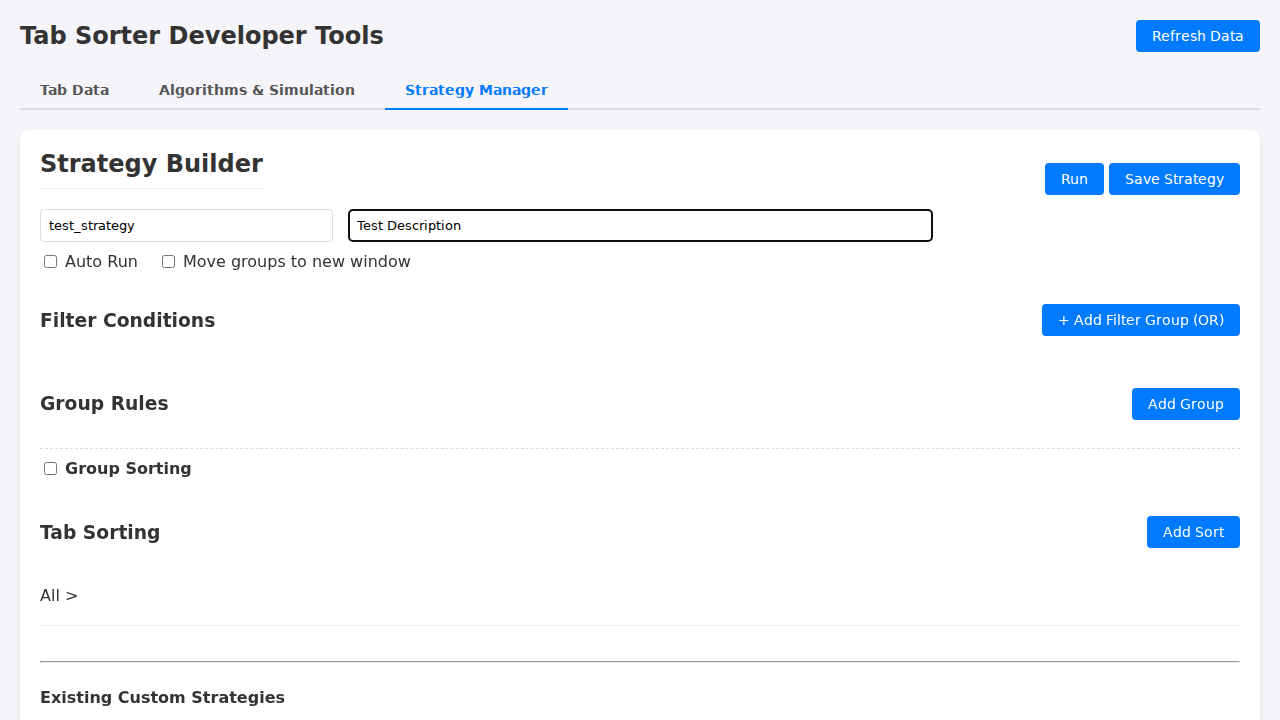
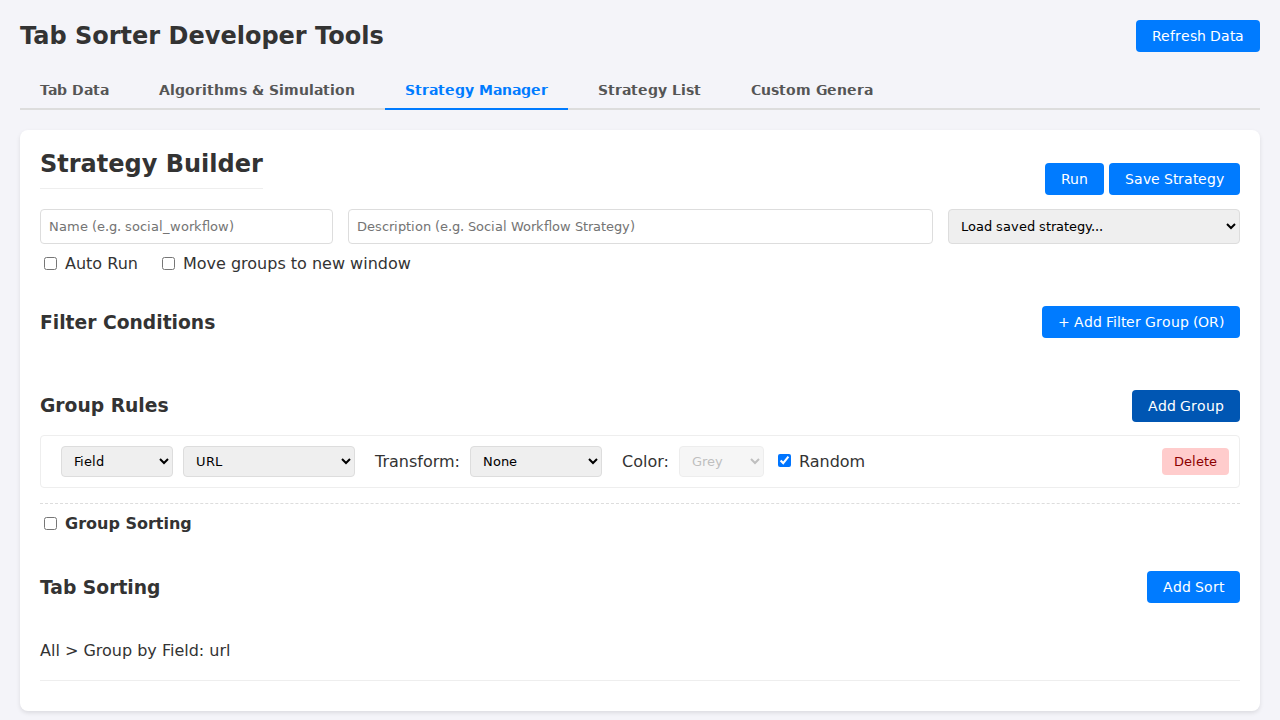
Add transformation support to Custom Strategy Grouping Rules
- Updated `GroupingRule` interface to include optional `transform` property.
- Implemented transformation logic in `groupingKey` (stripTld, domain, uppercase, etc.).
- Updated Strategy Builder UI to allow selecting transformations.
- This allows Custom Rules to produce cleaner labels (e.g., 'google' instead of 'google.com'), bridging the gap with built-in strategies.

diff --git a/src/ui/devtools.ts b/src/ui/devtools.ts
@@ -570,6 +570,17 @@ function addBuilderRow(type: 'group' | 'sort' | 'groupSort', data?: any) {
                  <input type="text" class="value-input-text" placeholder="Group Name" style="display:none;">
             </span>
 
+            <span style="margin-left: 10px;">Transform:</span>
+            <select class="transform-select">
+                <option value="none">None</option>
+                <option value="stripTld">Strip TLD</option>
+                <option value="domain">Get Domain</option>
+                <option value="hostname">Get Hostname</option>
+                <option value="lowercase">Lowercase</option>
+                <option value="uppercase">Uppercase</option>
+                <option value="firstChar">First Char</option>
+            </select>
+
             <span style="margin-left: 10px;">Color:</span>
             <select class="color-input">
                 <option value="grey">Grey</option>
@@ -643,6 +654,7 @@ function addBuilderRow(type: 'group' | 'sort' | 'groupSort', data?: any) {
             const sourceSelect = div.querySelector('.source-select') as HTMLSelectElement;
             const fieldSelect = div.querySelector('.value-input-field') as HTMLSelectElement;
             const textInput = div.querySelector('.value-input-text') as HTMLInputElement;
+            const transformSelect = div.querySelector('.transform-select') as HTMLSelectElement;
             const colorInput = div.querySelector('.color-input') as HTMLSelectElement;
             const randomCheck = div.querySelector('.random-color-check') as HTMLInputElement;
 
@@ -656,6 +668,8 @@ function addBuilderRow(type: 'group' | 'sort' | 'groupSort', data?: any) {
             } else {
                 if (data.value) textInput.value = data.value;
             }
+
+            if (data.transform) transformSelect.value = data.transform;
 
             if (data.color && data.color !== 'random') {
                 randomCheck.checked = false;
@@ -778,6 +792,8 @@ function getBuilderStrategy(): CustomStrategy | null {
             value = (row.querySelector('.value-input-text') as HTMLInputElement).value;
         }
 
+        const transform = (row.querySelector('.transform-select') as HTMLSelectElement).value as any;
+
         const randomCheck = row.querySelector('.random-color-check') as HTMLInputElement;
         const colorInput = row.querySelector('.color-input') as HTMLSelectElement;
 
@@ -787,7 +803,7 @@ function getBuilderStrategy(): CustomStrategy | null {
         }
 
         if (value) {
-            groupingRules.push({ source, value, color });
+            groupingRules.push({ source, value, color, transform });
         }
     });
 

diff --git a/src/background/groupingStrategies.ts b/src/background/groupingStrategies.ts
@@ -278,6 +278,34 @@ export const groupingKey = (tab: TabMetadata, strategy: GroupingStrategy | strin
               } else {
                    val = rule.value;
               }
+
+              // Apply Transformation
+              if (val && rule.transform && rule.transform !== 'none') {
+                  switch (rule.transform) {
+                      case 'stripTld':
+                          val = stripTld(val);
+                          break;
+                      case 'lowercase':
+                          val = val.toLowerCase();
+                          break;
+                      case 'uppercase':
+                          val = val.toUpperCase();
+                          break;
+                      case 'firstChar':
+                          val = val.charAt(0);
+                          break;
+                      case 'domain':
+                          // Assumes val is a URL
+                          val = domainFromUrl(val);
+                          break;
+                      case 'hostname':
+                          try {
+                            val = new URL(val).hostname;
+                          } catch { /* keep as is */ }
+                          break;
+                  }
+              }
+
               if (val) parts.push(val);
           }
 

diff --git a/src/shared/types.ts b/src/shared/types.ts
@@ -124,6 +124,7 @@ export interface GroupingRule {
   source: "field" | "fixed";
   value: string;
   color?: string; // hex code or "random"
+  transform?: "none" | "stripTld" | "lowercase" | "uppercase" | "firstChar" | "domain" | "hostname";
 }
 
 export interface SortingRule {

diff --git a/verification/verify_ui.py b/verification/verify_ui.py
@@ -1,40 +1,91 @@
 from playwright.sync_api import sync_playwright
-import os
 
-def run():
+def verify_devtools_ui():
     with sync_playwright() as p:
         browser = p.chromium.launch(headless=True)
         page = browser.new_page()
 
-        # Load the HTML file directly
-        file_path = os.path.abspath("ui/devtools.html")
-        page.goto(f"file://{file_path}")
+        # Inject mock chrome API
+        page.add_init_script("""
+            window.chrome = {
+                runtime: {
+                    sendMessage: (msg) => {
+                        console.log("Mock sendMessage:", msg);
+                        return Promise.resolve({ ok: true, data: {} });
+                    },
+                    onMessage: { addListener: () => {} }
+                },
+                tabs: {
+                    query: () => Promise.resolve([]),
+                    onUpdated: { addListener: () => {} },
+                    onRemoved: { addListener: () => {} }
+                },
+                tabGroups: {
+                    query: () => Promise.resolve([]),
+                    update: () => Promise.resolve()
+                },
+                windows: {
+                    update: () => Promise.resolve()
+                }
+            };
+        """)
 
-        # Click the "Strategy Manager" tab to switch view
-        page.locator(".tab-btn[data-target=\"view-strategies\"]").click()
+        page.goto("http://localhost:8000/ui/devtools.html")
+        page.wait_for_selector("body")
 
-        # Wait for the view to be active
-        page.locator("#view-strategies").wait_for(state="visible")
+        # Switch to Strategy Manager tab
+        strategy_tab_btn = page.locator(".tab-btn[data-target='view-strategies']")
+        strategy_tab_btn.click()
+        print("Clicked Strategy Manager tab")
 
-        # Check if the IDs strat-name and strat-desc exist and are visible
-        # We can also fill them to ensure they are interactive
-        page.locator("#strat-name").fill("test_strategy")
-        page.locator("#strat-desc").fill("Test Description")
+        # Wait for the view to become active
+        page.wait_for_selector("#view-strategies.active")
 
-        # Verify that run and save buttons are present
-        expect_run = page.locator("#builder-run-btn")
-        expect_save = page.locator("#builder-save-btn")
+        # Click "Add Group" to create a new row
+        add_btn = page.locator("#add-group-btn")
+        if add_btn.is_visible():
+            add_btn.click()
+            print("Clicked Add Group")
+        else:
+            print("Add Group button not visible")
 
-        if not expect_run.is_visible():
-            print("Run button not visible")
-        if not expect_save.is_visible():
-            print("Save button not visible")
+        # Wait for the row to appear
+        try:
+            page.wait_for_selector(".builder-row", timeout=5000)
+            print("Builder row appeared.")
+        except:
+            print("Builder row did not appear.")
 
-        # Take a screenshot
-        page.screenshot(path="verification/devtools_verification.png")
-        print("Screenshot saved to verification/devtools_verification.png")
+        # Check for Transform UI
+        transform_select = page.locator(".transform-select")
+        # Since I just added a row, it should be the last one or only one.
+        # We need to make sure the row type is 'group'. The ID is #group-rows-container
+        # Check inside that container
+        group_rows = page.locator("#group-rows-container .builder-row")
+
+        if group_rows.count() > 0:
+            row = group_rows.first
+            select = row.locator(".transform-select")
+            if select.is_visible():
+                 print("Transform select found.")
+                 options = select.locator("option").all_inner_texts()
+                 print("Options found:", options)
+                 expected = ["None", "Strip TLD", "Get Domain", "Get Hostname", "Lowercase", "Uppercase", "First Char"]
+                 missing = [e for e in expected if e not in options]
+                 if not missing:
+                     print("All expected options present.")
+                 else:
+                     print("Missing options:", missing)
+            else:
+                print("Transform select NOT found in row.")
+        else:
+            print("No group rows found.")
+
+        # Take screenshot
+        page.screenshot(path="verification/devtools_strategy_verification.png")
+        print("Screenshot saved to verification/devtools_strategy_verification.png")
 
         browser.close()
 
 if __name__ == "__main__":
-    run()
+    verify_devtools_ui()
